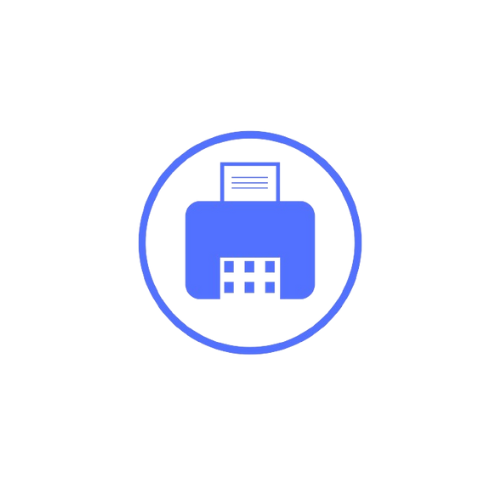
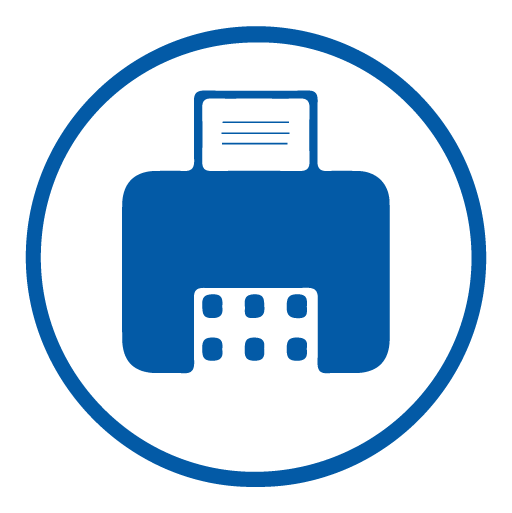
Content updates
Content updated.

Changed region(s): [[0.24, 0.15, 0.78, 0.75], [0.03, 0.03, 0.96, 0.96]]

diff --git a/css/proconex-stylesheet.css b/css/proconex-stylesheet.css
@@ -1,2 +1,2 @@
[2 lines of base64/hex data omitted]
 /*# sourceMappingURL=proconex-stylesheet.css.map */

diff --git a/support.html b/support.html
@@ -1,5 +1,6 @@
 <!DOCTYPE html>
-<html lang="en"><!-- InstanceBegin template="/Templates/page.dwt" codeOutsideHTMLIsLocked="false" -->
+<html lang="en">
+<!-- InstanceBegin template="/Templates/page.dwt" codeOutsideHTMLIsLocked="false" -->
 <head>
 <meta charset="utf-8">
 <meta http-equiv="X-UA-Compatible" content="IE=edge">
@@ -11,14 +12,12 @@
 <!-- Bootstrap -->
 <link href="css/bootstrap-4.4.1.css" rel="stylesheet">
 <link href="css/proconex-stylesheet.css?v=2.7" rel="stylesheet">
-
 <!-- InstanceBeginEditable name="head" -->
 <!-- InstanceEndEditable -->
-
 </head>
 <body id="proconEx_bdy">
 <!-- jQuery (necessary for Bootstrap's JavaScript plugins) --> 
-<script src="js/jquery-3.4.1.min.js"></script>
+<script src="js/jquery-3.4.1.min.js"></script> 
 <!-- InstanceBeginEditable name="hd-js" --> <!-- InstanceEndEditable -->
 <header>
   <nav class="navbar navbar-expand-xl bg_white"> <a class="navbar-brand" href="index.html"><img src="images/proconex-pvt-ltd.png" width="1024" height="121" alt="Proconex Pvt. Ltd."></a>
@@ -47,9 +46,7 @@
     </div>
   </nav>
 </header>
-<main>
-
-  <!-- InstanceBeginEditable name="features_text" -->
+<main> <!-- InstanceBeginEditable name="features_text" -->
   <section style="background-image: url('images/Shahaab-turbine-control-spares-and-repairs-solution-provider.jpg')" id="proconEx_features" class="d-flex justify-content-center align-items-center">
     <div class="container">
       <div class="row">
@@ -62,9 +59,47 @@
       </div>
     </div>
   </section>
-  <!-- InstanceEndEditable -->
-  <!-- InstanceBeginEditable name="page-content" -->
-  <section id="proconEx_services" class="bg_white">
+  <!-- InstanceEndEditable --> <!-- InstanceBeginEditable name="page-content" -->
+<section id="proconEx_services" class="bg_white">
+    <div class="container">
+      <div class="row">
+        <div class="col-12 text-center">
+          <div class="proconEx_services_1">
+            <h2>Customer Support <strong>Hub</strong></h2>
+          </div>
+        </div>
+        <div class="col-12">
+            <div class="d-flex flex-wrap customer-support justify-content-center">
+          <div class="proconEx_services_1">
+            <h3><strong>Ask Network of Engineers?</strong></h3>
+            <p><a href="#"><img src="images/support/ask-engineers.png" width="513" height="513" alt="Ask Network of Engineers?"></a></p>
+          </div>
+          <div class="proconEx_services_1">
+            <h3><strong>Contact Store</strong></h3>
+            <p><a href="#"><img src="images/support/contact-store.png" width="513" height="513" alt="Ask Network of Engineers?"></a></p>
+          </div>
+          <div class="proconEx_services_1">
+            <h3><strong>Transportation &amp; Shipping</strong></h3>
+            <p><a href="#"><img src="images/support/shipping.png" width="513" height="513" alt="Shipping - Air, Water or Land"></a></p>
+          </div>
+          <div class="proconEx_services_1">
+            <h3><strong>Warrenty &amp; returns</strong></h3>
+            <p><a href="#"><img src="images/support/warranty-returns.png" width="513" height="513" alt="Warrenty and returns"></a></p>
+          </div>
+          <div class="proconEx_services_1">
+            <h3><strong>Goods Insurance</strong></h3>
+            <p><a href="#"><img src="images/support/insurance.png" width="513" height="513" alt="Goods Insurance"></a></p>
+          </div>
+          <div class="proconEx_services_1">
+            <h3><strong>Fax</strong></h3>
+            <p><a href="#"><img src="images/support/FAX.png" width="512" height="513" alt="Fax"></a></p>
+          </div>
+                </div>
+        </div>
+      </div>
+    </div>
+  </section>
+  <section id="proconEx_services1" class="bg_white">
     <div class="container">
       <div class="row">
         <div class="col-12">
@@ -339,8 +374,7 @@
       </div>
     </div>
   </section>
-  <!-- InstanceEndEditable -->
-</main>
+  <!-- InstanceEndEditable --> </main>
 <footer>
   <section id="proconEx_certify">
     <div class="container">
@@ -361,7 +395,8 @@
             <div class="proconEx_certify_1">
               <h3>Corporate Office</h3>
               <address>
-                  <p>Proconex Pvt. Ltd. <br> #7, 1<sup>st</sup> Floor, 1<sup>st</sup> A Cross, MCECHS Layout, Dr. SRK Nagar, Bangalore, Karnataka, India, <span class="d-inline-block">PIN: 560077</span></p>
+              <p>Proconex Pvt. Ltd. <br>
+                #7, 1<sup>st</sup> Floor, 1<sup>st</sup> A Cross, MCECHS Layout, Dr. SRK Nagar, Bangalore, Karnataka, India, <span class="d-inline-block">PIN: 560077</span></p>
               </address>
             </div>
             <div class="proconEx_certify_1">
@@ -391,7 +426,7 @@
               <p>Follow us on Facebook <span class="icon proconex-facebook2"></span></p>
               <p>Follow us on LinkedIn <span class="icon proconex-linkedin"></span></p>
               <p><span class="icon proconex-youtube"></span> YouTube Channel</p>
-            </div>-->
+            </div>--> 
           </div>
         </div>
         <div class="col-12 mt-3">
@@ -428,7 +463,7 @@
     </div>
     <img src="images/proconex-process-control-experts.jpg" width="1654" height="197" alt="" style="width: 100%"> </section>
   <div class="d-flex copyrights">
-      <p>Follow us on Social Media: <span class="d-inline-block"><a href="#">Facebook</a> <span class="icon proconex-facebook2"></span></span> | <span class="d-inline-block"><a href="https://in.linkedin.com/company/proconex-pvt-ltd" target="_blank">LinkedIn</a> <span class="icon proconex-linkedin"></span></span> | <span class="d-inline-block"><span class="icon proconex-youtube"></span> <a href="#">YouTube Channel</a></span></p>
+    <p>Follow us on Social Media: <span class="d-inline-block"><a href="#">Facebook</a> <span class="icon proconex-facebook2"></span></span> | <span class="d-inline-block"><a href="https://in.linkedin.com/company/proconex-pvt-ltd" target="_blank">LinkedIn</a> <span class="icon proconex-linkedin"></span></span> | <span class="d-inline-block"><span class="icon proconex-youtube"></span> <a href="#">YouTube Channel</a></span></p>
     <p><a href="#">Terms &amp; Conditions</a> | <a href="#">Privacy Policy</a> | <a href="#">Disclaimer</a></p>
     <p>Copyrights<sup>&copy;</sup> Proconex Pvt. Ltd. All rights reserved<sup>&reg;</sup></p>
   </div>
@@ -436,8 +471,9 @@
 
 <!-- Include all compiled plugins (below), or include individual files as needed --> 
 <script src="js/popper.min.js"></script> 
-<script src="js/bootstrap-4.4.1.js"></script>
-<script src="js/proconEx-1.js"></script>
-<!-- InstanceBeginEditable name="js1" --> <!-- InstanceEndEditable --> 
+<script src="js/bootstrap-4.4.1.js"></script> 
+<script src="js/proconEx-1.js"></script> 
+<!-- InstanceBeginEditable name="js1" --> <!-- InstanceEndEditable -->
 </body>
-<!-- InstanceEnd --></html>
+<!-- InstanceEnd -->
+</html>

diff --git a/css/proconex-stylesheet.scss b/css/proconex-stylesheet.scss
@@ -348,6 +348,18 @@ img{
     //Services section
     [id*="proconEx_services"]{ 
         padding: calc(60em/10) 0px;
+        .customer-support{
+            .proconEx_services_1{
+                display: flex;
+                flex-direction: column-reverse;
+                border: 1px solid #ddd;
+                text-align: center;
+                img{
+                    width: 100px;
+                    margin: 12px;
+                }
+            }
+        }
         .proconEx_services_1{
             padding: calc(15em/10);
             &.support{
